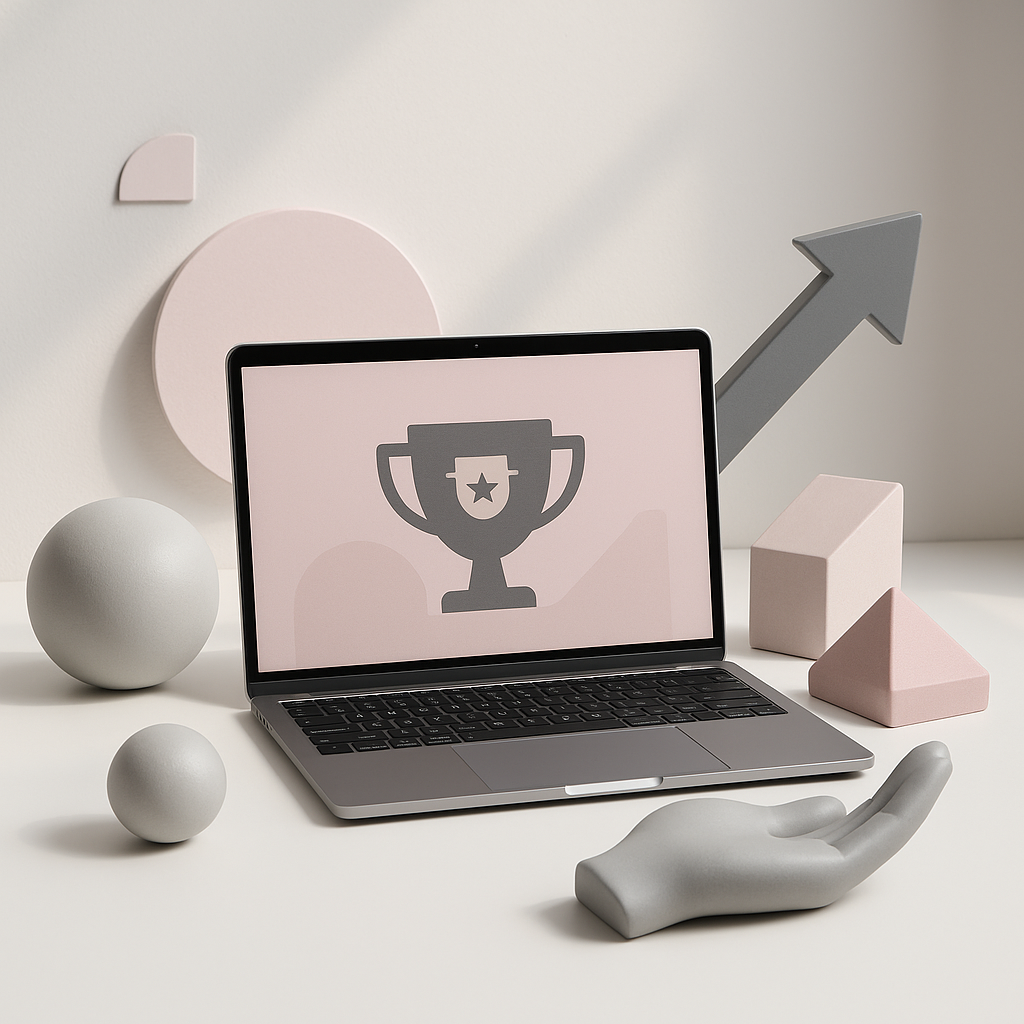
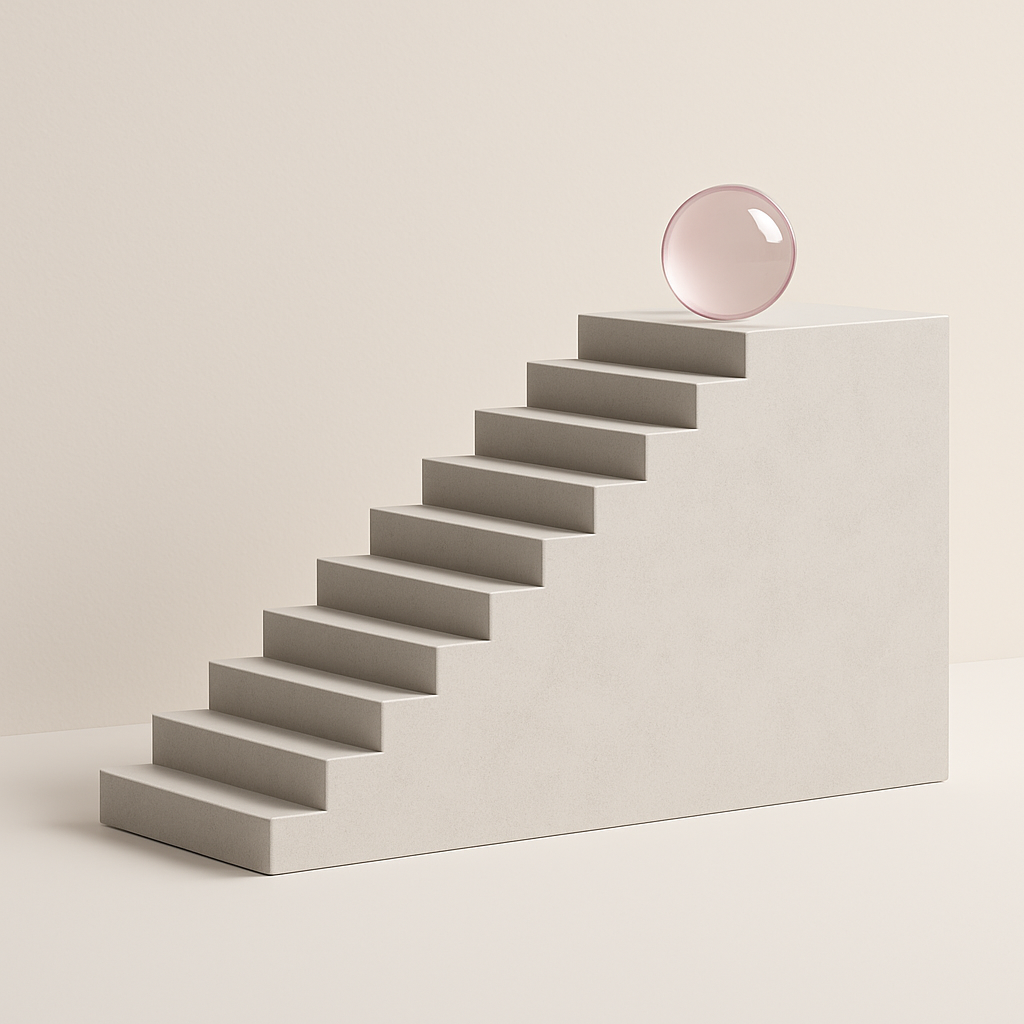
feat: update background images and gradients for improved visual consistency across pages

diff --git a/about.html b/about.html
@@ -164,7 +164,7 @@
     </header>
 
     <main>
-      <section class="about-hero" aria-labelledby="about-hero-title">
+      <section class="about-hero"  style="background: url(../img/img1.png); background-position: right bottom; background-repeat: no-repeat; background-size: contain;" aria-labelledby="about-hero-title">
         <div class="container about-hero__inner">
           <div class="about-hero__content">
             <p
@@ -221,6 +221,7 @@
             data-i18n-uk="Ключові метрики студії"
             data-i18n-en="Key studio metrics"
             data-i18n-attr="aria-label"
+            
           >
             <div class="about-stat">
               <span class="about-stat__value">5+</span>
@@ -517,7 +518,7 @@
       </section>
       <section class="about-section about-values" aria-labelledby="values-title">
         <div class="container about-section__split">
-          <div style="background: url('/img/img1.png'); background-size: cover; background-position: center; background-repeat: no-repeat; width: 100%; height: 100%;" class="about-section__header">
+          <div style="background: url('/img/img7.png'); background-size: cover; background-position: center; background-repeat: no-repeat; width: 100%; height: 100%;" class="about-section__header">
             <h2
               id="values-title"
               data-i18n-pl="Co cenimy"

diff --git a/css/page-home.css b/css/page-home.css
@@ -105,7 +105,7 @@
 }
 
 .stat-card {
-  background: linear-gradient(232deg,rgba(235, 192, 204, 1) 0%, rgba(218, 225, 237, 1) 100%);
+  background: linear-gradient(232deg,var(--color-gradient-dark) 0%, var(--color-gradient-light) 100%);
   border-radius: 24px;
   border: 1px solid var(--border);
   padding: 26px;
@@ -182,7 +182,7 @@
 }
 
 .home-service-card {
-  background: linear-gradient(232deg,rgba(235, 192, 204, 1) 0%, rgba(218, 225, 237, 1) 100%);
+  background: linear-gradient(232deg,var(--color-gradient-dark) 0%, var(--color-gradient-light) 100%);
   border-radius: 24px;
   border: 1px solid var(--border);
   padding: 28px 26px 32px;
@@ -314,7 +314,7 @@
 .case-card {
   position: relative;
   padding: 24px;
-  background: linear-gradient(232deg,rgba(235, 192, 204, 1) 0%, rgba(218, 225, 237, 1) 100%);
+  background: linear-gradient(232deg,var(--color-gradient-dark) 0%, var(--color-gradient-light) 100%);
   border-radius: 24px;
   border: none;
   display: flex;
@@ -394,7 +394,7 @@
 }
 
 .testimonial-card {
-  background: linear-gradient(232deg,rgba(235, 192, 204, 1) 0%, rgba(218, 225, 237, 1) 100%);
+  background: linear-gradient(232deg,var(--color-gradient-dark) 0%, var(--color-gradient-light) 100%);
   border-radius: 26px;
   border: 1px solid var(--border);
   padding: 28px;

diff --git a/css/page-blog.css b/css/page-blog.css
@@ -66,7 +66,7 @@
 }
 
 .blog-hero__card {
-  background: linear-gradient(232deg,rgba(235, 192, 204, 1) 0%, rgba(218, 225, 237, 1) 100%);
+  background: linear-gradient(232deg,var(--color-gradient-dark) 0%, var(--color-gradient-light) 100%);
   border-radius: 24px;
   border: 1px solid var(--border);
   padding: 30px;
@@ -152,7 +152,7 @@
 }
 
 .blog-topic-card {
-  background: linear-gradient(232deg,rgba(235, 192, 204, 1) 0%, rgba(218, 225, 237, 1) 100%);
+  background: linear-gradient(232deg,var(--color-gradient-dark) 0%, var(--color-gradient-light) 100%);
   border-radius: 20px;
   border: 1px solid var(--border);
   padding: 24px;
@@ -194,7 +194,7 @@
 }
 
 .blog-post-card {
-  background: linear-gradient(232deg,rgba(235, 192, 204, 1) 0%, rgba(218, 225, 237, 1) 100%);
+  background: linear-gradient(232deg,var(--color-gradient-dark) 0%, var(--color-gradient-light) 100%);
   border-radius: 22px;
   border: 1px solid var(--border);
   padding: 28px;

diff --git a/css/page-services.css b/css/page-services.css
@@ -87,7 +87,7 @@
 }
 
 .services-highlight-card {
-  background: linear-gradient(232deg,rgba(235, 192, 204, 1) 0%, rgba(218, 225, 237, 1) 100%);
+  background: linear-gradient(232deg,var(--color-gradient-dark) 0%, var(--color-gradient-light) 100%);
   border-radius: 24px;
   border: 1px solid var(--border);
   padding: 32px 28px;
@@ -133,6 +133,7 @@
 
 .services-section {
   padding: 90px 0;
+  margin-bottom: 20px;
 }
 
 .services-section__header,
@@ -163,7 +164,7 @@
 }
 
 .service-card {
-  background: linear-gradient(232deg,rgba(235, 192, 204, 1) 0%, rgba(218, 225, 237, 1) 100%);
+  background: linear-gradient(232deg,var(--color-gradient-dark) 0%, var(--color-gradient-light) 100%);
   border-radius: 24px;
   border: 1px solid var(--border);
   padding: 32px 28px;

diff --git a/css/page-order.css b/css/page-order.css
@@ -74,7 +74,7 @@
 }
 
 .order-hero__card {
-  background: linear-gradient(232deg,rgba(235, 192, 204, 1) 0%, rgba(218, 225, 237, 1) 100%);
+  background: linear-gradient(232deg,var(--color-gradient-dark) 0%, var(--color-gradient-light) 100%);
   border-radius: 24px;
   border: 1px solid var(--border);
   padding: 30px;
@@ -135,7 +135,7 @@
 }
 
 .order-package-card {
-  background: linear-gradient(232deg,rgba(235, 192, 204, 1) 0%, rgba(218, 225, 237, 1) 100%);
+  background: linear-gradient(232deg,var(--color-gradient-dark) 0%, var(--color-gradient-light) 100%);
   border-radius: 24px;
   border: 1px solid var(--border);
   padding: 30px;

diff --git a/css/page-contacts.css b/css/page-contacts.css
@@ -61,7 +61,7 @@
 }
 
 .availability-card {
-  background: linear-gradient(232deg,rgba(235, 192, 204, 1) 0%, rgba(218, 225, 237, 1) 100%);
+  background: linear-gradient(232deg,var(--color-gradient-dark) 0%, var(--color-gradient-light) 100%);
   border: 1px solid var(--border);
   border-radius: 24px;
   padding: 32px 28px;
@@ -302,7 +302,7 @@
 }
 
 .faq-card {
-  background: linear-gradient(232deg,rgba(235, 192, 204, 1) 0%, rgba(218, 225, 237, 1) 100%);
+  background: linear-gradient(232deg,var(--color-gradient-dark) 0%, var(--color-gradient-light) 100%);
   border-radius: 22px;
   border: 1px solid var(--border);
   padding: 28px;

diff --git a/css/page-pricing.css b/css/page-pricing.css
@@ -62,7 +62,7 @@
 }
 
 .pricing-hero__card {
-  background: linear-gradient(232deg,rgba(235, 192, 204, 1) 0%, rgba(218, 225, 237, 1) 100%);
+  background: linear-gradient(232deg,var(--color-gradient-dark) 0%, var(--color-gradient-light) 100%);
   border-radius: 24px;
   border: 1px solid var(--border);
   padding: 30px;
@@ -123,7 +123,7 @@
 }
 
 .pricing-card {
-  background: linear-gradient(232deg,rgba(235, 192, 204, 1) 0%, rgba(218, 225, 237, 1) 100%);
+  background: linear-gradient(232deg,var(--color-gradient-dark) 0%, var(--color-gradient-light) 100%);
   border-radius: 24px;
   border: 1px solid var(--border);
   padding: 30px;

diff --git a/css/page-about.css b/css/page-about.css
@@ -9,7 +9,7 @@
 
 .about-hero {
   margin-top: 80px;
-  padding: 140px 0 90px;
+  padding: 90px 0 90px;
 }
 
 .about-hero__inner {
@@ -119,7 +119,10 @@
 }
 
 .about-card {
-  background: linear-gradient(232deg,rgba(235, 192, 204, 1) 0%, rgba(218, 225, 237, 1) 100%);
+
+  background: linear-gradient(232deg,var(--color-gradient-dark) 0%, var(--color-gradient-light) 100%);
+
+
   border: 1px solid var(--border);
   border-radius: 22px;
   padding: 32px;

diff --git a/blog.html b/blog.html
@@ -298,7 +298,7 @@
           </aside>
         </div>
       </section>
-      <section class="blog-topics" id="topics" aria-labelledby="topics-title">
+      <section class="blog-topics" style="background: url(../img/img6.png); background-position: center; background-repeat: no-repeat; background-size: cover;" id="topics" aria-labelledby="topics-title">
         <div class="container">
           <div class="blog-section-header">
             <h2

diff --git a/css/reset.css b/css/reset.css
@@ -75,7 +75,7 @@ ul li {
 }
 
 img {
-  vertical-align: top;
+  /* vertical-align: top; */
   max-width: 100%;
   height: auto;
   display: block;
@@ -121,6 +121,8 @@ h6 {
   --btn-border: #2f3e60;
   --btn-hover-shadow: rgba(126, 139, 168, 0.26);
   --gradient-main: linear-gradient(180deg, rgba(248, 249, 252, 0.95) 0%, rgba(219, 226, 239, 0.6) 100%);
+  --color-gradient-dark: #dac5bd ;
+  --color-gradient-light: rgb(234, 238, 245);
 }
 
 body {

diff --git a/services.html b/services.html
@@ -611,7 +611,7 @@
         </div>
       </section>
 
-      <section class="services-section services-proof" aria-labelledby="proof-title">
+      <section class="services-section services-proof" style="background: url(../img/img5.png); background-position: left center; background-repeat: no-repeat; background-size: contain;" aria-labelledby="proof-title">
         <div class="container services-proof__inner">
           <div>
             <h2

diff --git a/css/section-works.css b/css/section-works.css
@@ -41,7 +41,7 @@
 }
 
 .card {
-  background: linear-gradient(232deg,rgba(235, 192, 204, 1) 0%, rgba(218, 225, 237, 1) 100%);
+  background: linear-gradient(232deg,var(--color-gradient-dark) 0%, var(--color-gradient-light) 100%);
   padding: 20px;
   border-radius: 16px;
   box-shadow: 0 4px 18px rgba(126, 139, 168, 0.35);
